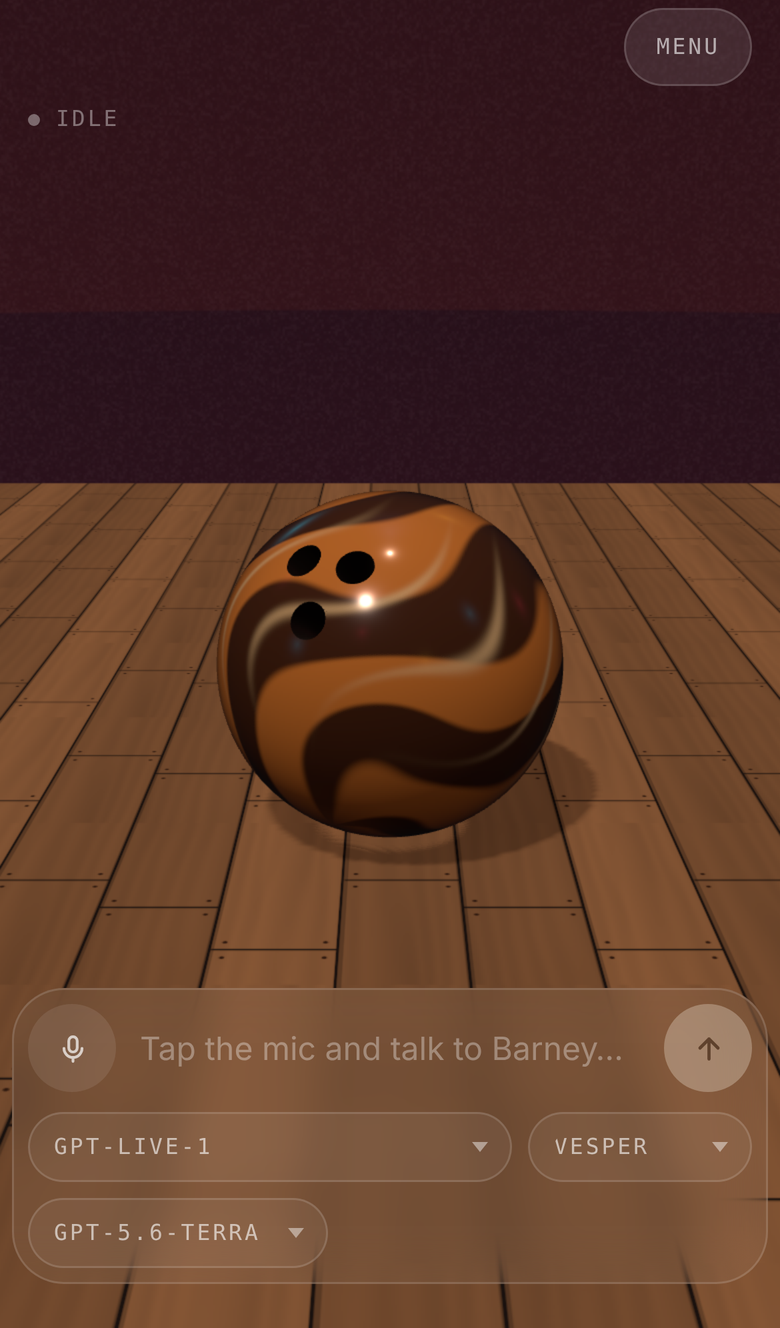
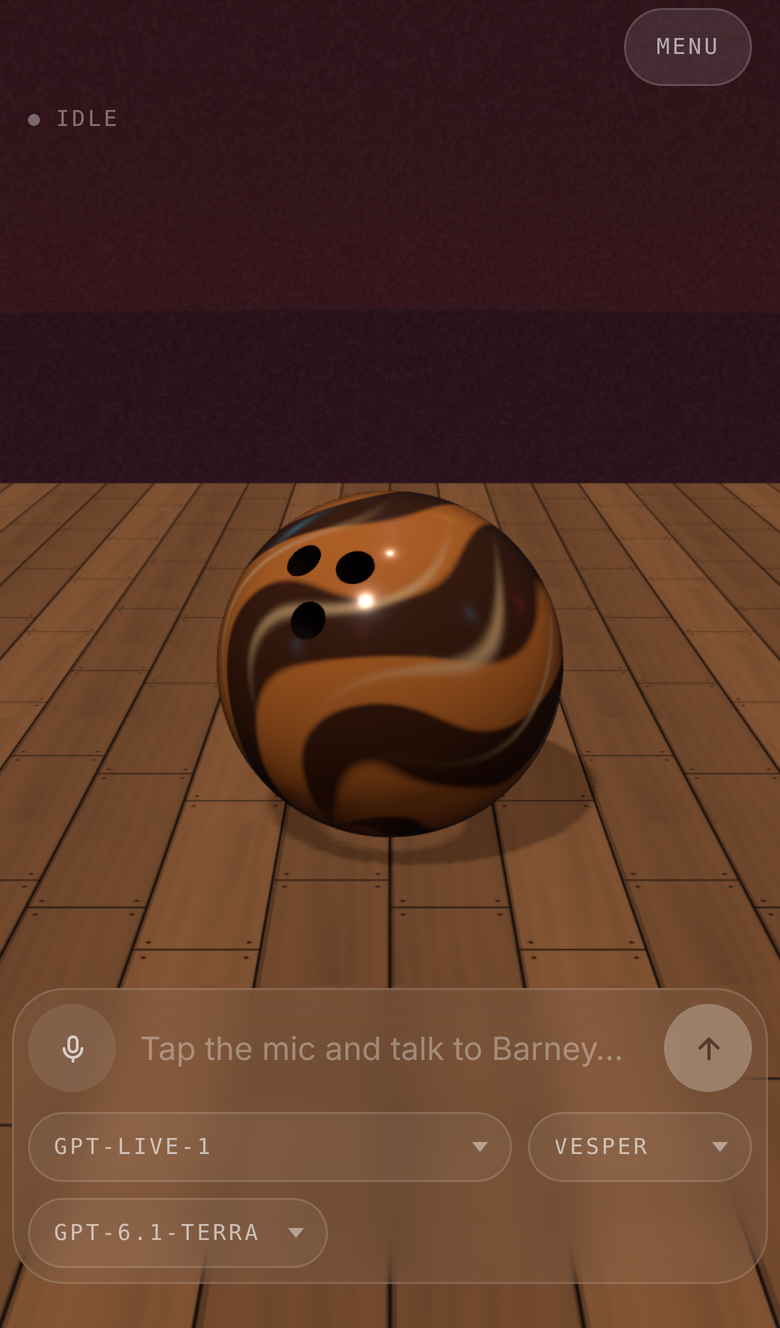
Default backend model gpt-6.1-terra
OPENAI_BACKEND_MODEL now defaults to gpt-6.1-terra in the server config, the
session config, .env.example, the README and the configuration docs. The
test stub lists it so the picker and the fallback tests exercise it. The
screenshots are retaken to show it (and the flat floor).

Claude-Session: https://claude.ai/code/session_01EikGxvsJ7764fZKejTFbA7

diff --git a/test/server/openai.test.js b/test/server/openai.test.js
@@ -17,7 +17,7 @@ describe('GPT-Live backend', () => {
   it('offers text models from GPT-5 on as backends, the configured one first', async () => {
     const { client } = await setup({ OPENAI_BACKEND_MODEL: 'gpt-5.6-luna' });
     const ids = (await client.catalog()).backendModels.map((m) => m.id);
-    assert.deepEqual(ids, ['gpt-5.6-luna', 'gpt-5.6-terra', 'gpt-6'],
+    assert.deepEqual(ids, ['gpt-5.6-luna', 'gpt-5.6-terra', 'gpt-6', 'gpt-6.1-terra'],
       'dated snapshots and codex builds are the same model again, or not for this');
   });
   it('keeps a configured backend the key cannot list in the picker', async () => {
@@ -37,7 +37,7 @@ describe('GPT-Live backend', () => {
       'gpt-5.6-terra-2026-08-20', 'gpt-5.6-codex', 'gpt-5.6-codex-mini', 'not-a-model', 42];
     for (const model of refused) {
       await client.createLiveSession({ sdp: 'offer', backendModel: model });
-      assert.equal(backend(), 'gpt-5.6-terra', `${model} was delegated to as-is`);
+      assert.equal(backend(), 'gpt-6.1-terra', `${model} was delegated to as-is`);
     }
   });
   it('creates a session with search and function tools', async () => {
@@ -51,7 +51,7 @@ describe('GPT-Live backend', () => {
     assert.equal(s.audio.output.voice, 'vesper');
     assert.equal(s.audio.input, undefined);
     assert.equal(s.type, undefined);
-    assert.equal(s.delegation.responses.model, 'gpt-5.6-terra');
+    assert.equal(s.delegation.responses.model, 'gpt-6.1-terra');
     assert.deepEqual(s.delegation.responses.tools.map((t) => t.name || t.type), ['web_search', 'remember', 'forget']);
     assert.match(s.delegation.responses.instructions, /likes coffee/);
     assert.equal(result.session.id, 'live_test');

diff --git a/test/server/api.test.js b/test/server/api.test.js
@@ -30,8 +30,8 @@ describe('GET /api/models', () => {
       assert.equal(body.voice, 'stone');
       assert.ok(body.voices.includes('stone'));
       assert.ok(body.models.every((m) => m.id.startsWith('gpt-live-')));
-      assert.equal(body.backendModel, 'gpt-5.6-terra');
-      assert.equal(body.backendModels[0].id, 'gpt-5.6-terra');
+      assert.equal(body.backendModel, 'gpt-6.1-terra');
+      assert.equal(body.backendModels[0].id, 'gpt-6.1-terra');
       assert.ok(body.backendModels.every((m) => /^gpt-(?:[5-9]|[1-9][0-9]+)/.test(m.id)));
       assert.deepEqual(body.switches, [{ name: 'web_search', label: 'web search' }]);
     });
@@ -73,7 +73,7 @@ describe('POST /api/session', () => {
       assert.equal(picked.body.backendModel, 'gpt-5.6-luna');
 
       const bogus = await request('/api/session', post({ sdp: 'v=0 offer', backendModel: 'whisper-1-realtime' }));
-      assert.equal(bogus.body.backendModel, 'gpt-5.6-terra');
+      assert.equal(bogus.body.backendModel, 'gpt-6.1-terra');
     });
   });
 

diff --git a/src/server/persona.js b/src/server/persona.js
@@ -77,7 +77,7 @@ export function resumedBlock(resumed) {
 /** GPT-Live owns speech; the Responses backend owns functions and lookups. */
 export function sessionConfig(model, voice, {
   memories, memory = true, resumed, history,
-  backendModel = 'gpt-5.6-terra', webSearch = true,
+  backendModel = 'gpt-6.1-terra', webSearch = true,
 } = {}) {
   const input = (Array.isArray(history) ? history : [])
     .filter((m) => m && ['user', 'assistant'].includes(m.role) && typeof m.content === 'string')

diff --git a/src/server/config.js b/src/server/config.js
@@ -15,7 +15,7 @@ export function loadConfig(env = process.env) {
     baseUrl: env.OPENAI_BASE_URL || 'https://api.openai.com/v1',
     apiKey: env.OPENAI_API_KEY,
     defaultModel: env.OPENAI_LIVE_MODEL || 'gpt-live-1',
-    backendModel: env.OPENAI_BACKEND_MODEL || 'gpt-5.6-terra',
+    backendModel: env.OPENAI_BACKEND_MODEL || 'gpt-6.1-terra',
     webSearch: flag(env.WEB_SEARCH, true),
     defaultVoice,
     voices: KNOWN_VOICES.includes(defaultVoice)

diff --git a/test/helpers/openai-stub.js b/test/helpers/openai-stub.js
@@ -45,6 +45,7 @@ export const DEFAULT_MODELS = [
   'gpt-live-1',
   'gpt-live-1-2026-09-11',
   'gpt-5.6-terra',
+  'gpt-6.1-terra',
   'gpt-5.6-terra-2026-08-20',
   'gpt-5.6-luna',
   'gpt-5.6-codex',

diff --git a/docs/configuration.md b/docs/configuration.md
@@ -8,7 +8,7 @@ Both `npm run dev` and `npm start` read `.env`.
 | `MEMORY` | `true` | The `remember` and `forget` tools, and the memory block in the prompt |
 | `OPENAI_VOICE` | `vesper` | Initial voice: vesper, stone, ripple, meridian, tempo, beacon, cinder |
 | `OPENAI_LIVE_MODEL` | `gpt-live-1` | Preselected GPT-Live model |
-| `OPENAI_BACKEND_MODEL` | `gpt-5.6-terra` | Preselected Responses backend for reasoning and tools |
+| `OPENAI_BACKEND_MODEL` | `gpt-6.1-terra` | Preselected Responses backend for reasoning and tools |
 | `WEB_SEARCH` | `true` | Hosted web search; browsers may disable it |
 | `OPENAI_BASE_URL` | OpenAI | Points the proxy at a gateway or a stub |
 | `PORT` | `5173` | |

diff --git a/README.md b/README.md
@@ -30,7 +30,7 @@ cp .env.example .env      # add your OPENAI_API_KEY
 npm run dev               # → http://localhost:5173
 ```
 
-Requires API access to `gpt-live-1` and to the backend model (`gpt-5.6-terra`
+Requires API access to `gpt-live-1` and to the backend model (`gpt-6.1-terra`
 by default). Voice duration and backend tokens are billed separately.
 
 `npm install` fetches the engine from GitHub, so it needs `git`.
